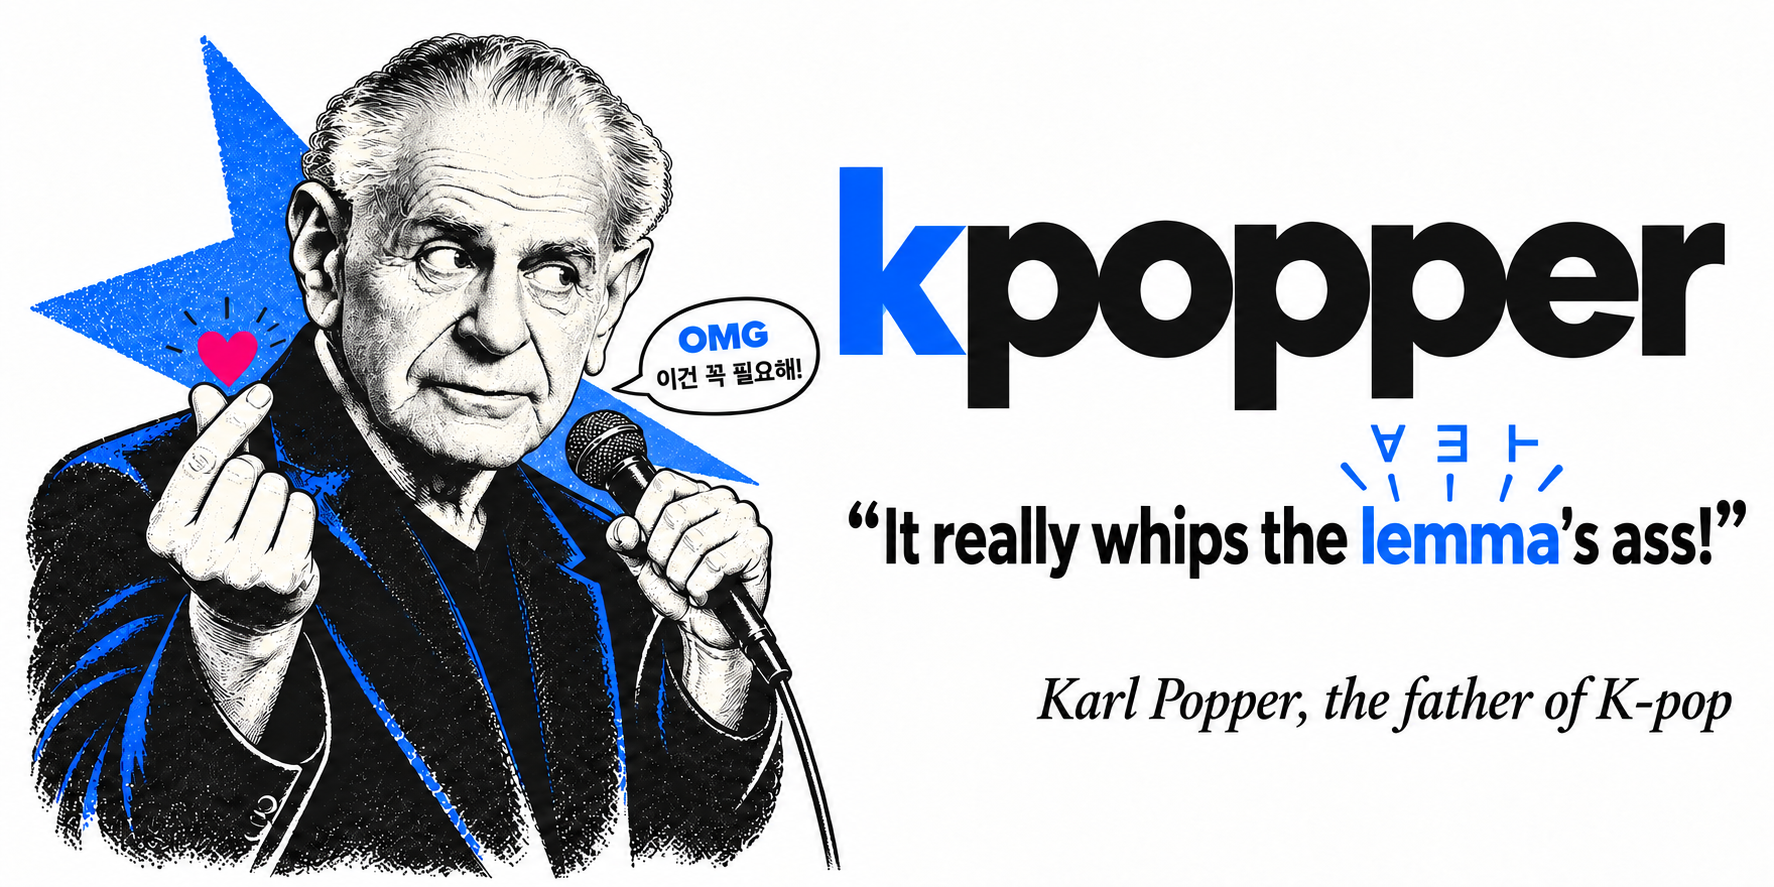
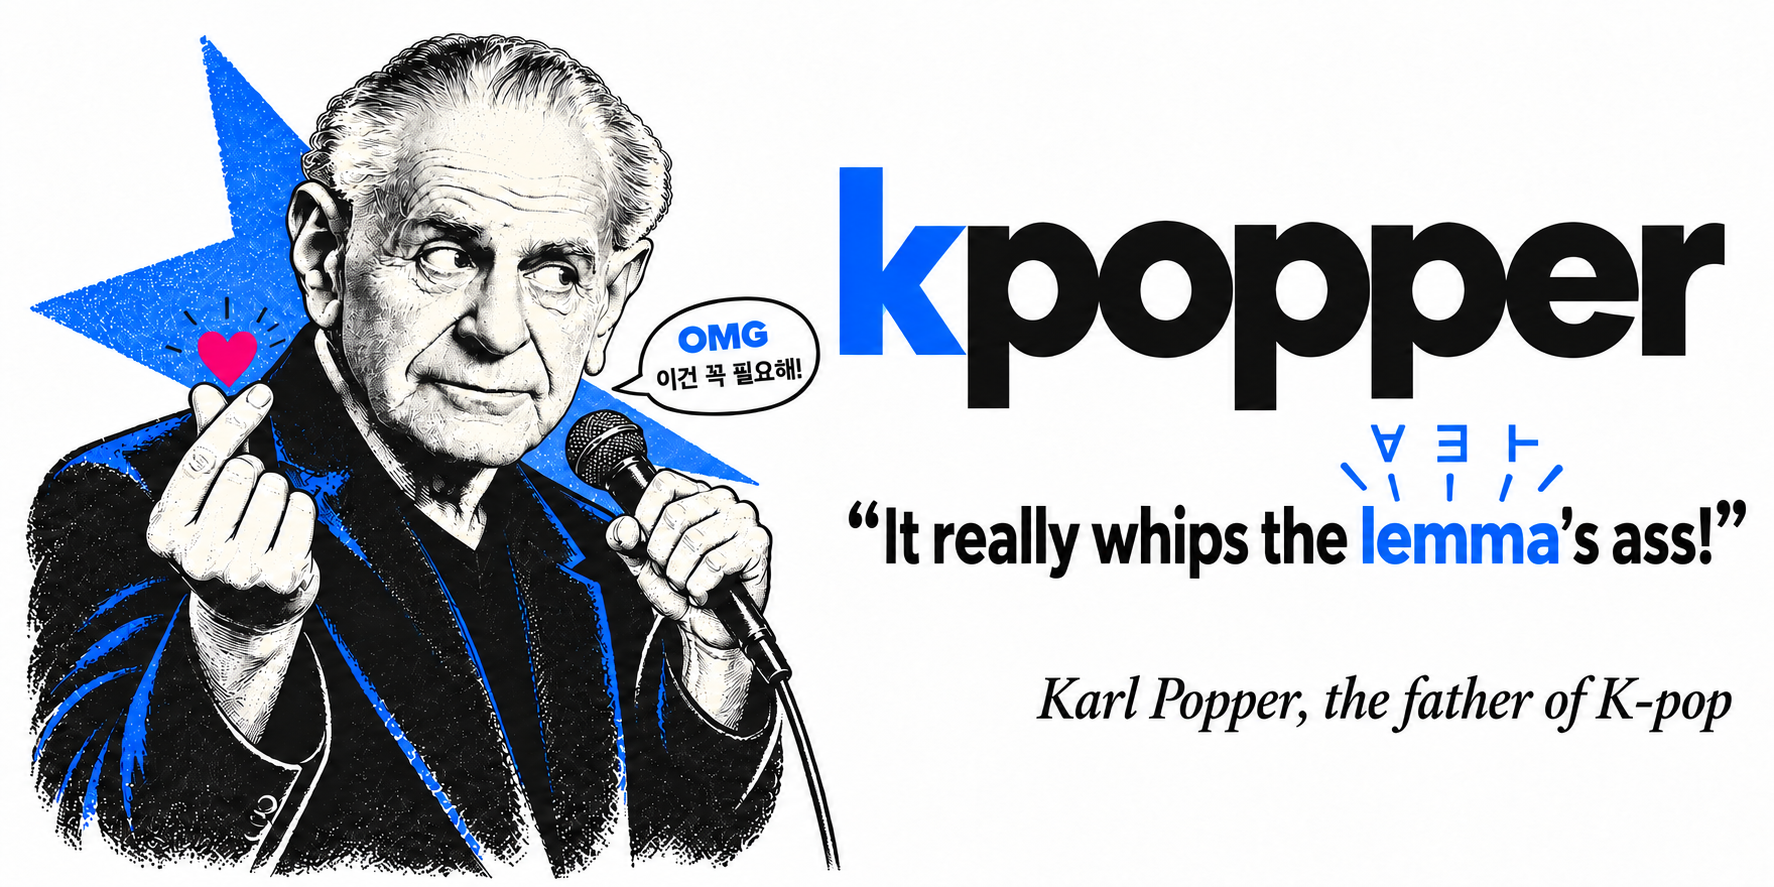
Sharpen reasoning-first copy and refine Popper tone

diff --git a/README.md b/README.md
@@ -8,12 +8,12 @@
 
 # Keep the reasoning. Move the work forward.
 
-kpopper gives your agents a living record of your project's facts, sources,
-decisions and open questions. It connects decisions to their evidence and
-assumptions, so the reasoning stays available across sessions, branches and
-documents. When recorded facts change, checks point to what needs another look.
+kpopper connects decisions to the evidence, assumptions and earlier decisions they
+depend on, and records what would make them worth revisiting. Your agents can follow
+that reasoning across sessions. When a recorded premise changes, kpopper traces its
+reach through the record and surfaces what needs another look.
 
-**Connect what you know to what you do next.**
+**A reasoning layer your agents can inspect, carry forward, and challenge.**
 
 **[Get started](#get-started)** · [Examples](#access-control-and-shared-caching) ·
 [Capabilities](#what-you-can-do-with-kpopper) · [Record format](#the-knowledge-record) ·
@@ -27,7 +27,7 @@ documents. When recorded facts change, checks point to what needs another look.
 - [Revisiting plans when the brief changes](#revisiting-plans-when-the-brief-changes)
 - [Installation and first use](#get-started)
 - [What you can do with kpopper](#what-you-can-do-with-kpopper)
-- [Projects, goals and existing sources](#start-with-the-work)
+- [One project, across your existing tools](#one-project-across-your-existing-tools)
 - [Past, present and future](#past-present-future)
 - [Background capture during a conversation](#keep-the-conversation-moving)
 - [The record and its evolving structure](#the-knowledge-record)
@@ -307,7 +307,9 @@ For a standalone CLI installation and a walkthrough of the launch-party example,
 Use the parts your project needs. Existing documents, tools and memory remain where
 they are; the agent records the relevant connections between them.
 
-## Start with the work
+<a id="start-with-the-work"></a>
+
+## One project, across your existing tools
 
 A project is **work around a goal**. Its materials may span documents, conversations,
 calendars, task systems, files and earlier sessions. In software, they also include code,
@@ -390,7 +392,8 @@ where the conversation can safely continue without that result.
 ### The knowledge record
 
 The technical term is an **epistemic record**: a record of what is known and how it is
-grounded. The main pieces are ordinary YAML:
+grounded. These are roles in the method, not six mandatory YAML sections. Start with
+what the work needs; a source and one finding can be enough.
 
 | Piece | What it preserves |
 |---|---|
@@ -400,6 +403,13 @@ grounded. The main pieces are ordinary YAML:
 | Judgment | A conclusion, its reasoning, declared dependencies and condition for reconsideration. |
 | Review snapshot | What those dependencies held when the judgment was last reviewed: `seen`. |
 | Open question | Something unresolved, retained without inventing an answer. |
+
+The method is opinionated about grounding conclusions, declaring dependencies and
+preserving a basis for review. A judgment needs the values it was reviewed against
+to make drift detectable, and a meaningful condition for reconsideration. A record
+with no judgments yet does not need invented conclusions, snapshots or derivations
+just to fill a template. Field names and project-specific categories are described
+[below](#a-structure-that-grows-with-the-project).
 
 **Change is compared with the last review.** When a recorded scalar differs from a judgment's
 `seen` snapshot, the reader identifies the movement. A supported `wrong_if` comparison says
@@ -442,6 +452,8 @@ The vocabulary is flexible. The ordinary reader recognizes dependency, predicate
 and snapshot roles by their shape; `facts`/`claims` can serve the same purpose as
 `known`/`judgments`. The documented names are the easiest starting point. When two
 fields fit the same role, an explicit `schema` mapping resolves the ambiguity.
+Some control fields, including `reopened_by` and `blocked_on`, are recognized by
+name; flexible vocabulary does not mean every keyword can be renamed.
 
 The relationships stay explicit: where a reading came from, what a decision depends
 on, what it was reviewed against, and what would bring it back for review. Supported
@@ -596,13 +608,6 @@ unrelated IDs, can still require human review.
 ## Popper: give a conclusion a way to fail
 
 The man in the banner is **Karl Popper**, cast here as an unlikely K-pop star.
-**kpopper** combines his name with K-pop; the microphone, finger heart and Korean
-“OMG, I really need this!” are part of the performance.
-
-The attribution **“Karl Popper, the father of K-pop”** is our joke, not a historical
-quotation. **“It really whips the lemma's ass!”** riffs on Winamp's llama slogan:
-*llama* becomes *lemma*, a supporting result in a proof. The little logic symbols
-help point to that wordplay.
 
 Karl Popper was a philosopher of science who argued that scientific theories should expose
 themselves to tests that could prove them wrong. Surviving a test does not make a theory
@@ -613,8 +618,16 @@ kpopper borrows that discipline for agent reasoning: **preserve the evidence, st
 would undermine a conclusion, and know when to reconsider it.** This is the idea behind
 the name.
 
-`wrong_if: 'venue.status != "confirmed"'` is an executable comparison. If it evaluates
-to true, `check` fails. A green check means no failing condition was found by these checks;
+**Now prove that Karl Popper isn't the father of K-pop.**
+
+Our imaginary announcement, **“Popper's K-pop debut is out,”** has a more concrete test:
+
+```yaml
+wrong_if: 'popper.single_status != "released"'
+```
+
+If the recorded status is `planned`, that condition fires and `check` fails.
+A green check means no failing condition was found by these checks;
 it does not establish that the recommendation is true, wise, complete or authorized.
 
 The predicate language is deliberately small: one supported comparison over declared

diff --git a/assets/brand-guide.md b/assets/brand-guide.md
@@ -12,9 +12,10 @@ a small number of strong accents.
 - Write the product name **kpopper** in prose too, including at the start of a
   sentence. Technical identifiers such as `KPOPPER_*` retain their actual spelling.
 - Karl Popper performs with a microphone and a finger-heart gesture. His serious
-  expression carries the humor.
+  expression carries the humor, with room for a barely perceptible, closed-mouth
+  smile. Keep his composure and a natural gaze rather than an exaggerated side-eye.
 - In the hero, a large ink portrait occupies the left side and looks inward toward
-  the wordmark and quotation on the right. Keep the serious expression and recognizably
+  the wordmark and quotation on the right. Keep the restrained expression and recognizably
   Popper-like features. The full-width banner balances character and typography.
 - The slogan is **“It really whips the lemma's ass!”** — a Winamp reference with
   *lemma* in place of *llama*.
@@ -122,6 +123,8 @@ attribution. Keep the caption within the hero without repeating it beneath the
 image. Philosophy and the third-brain metaphor follow the concrete examples.
 
 A small curiosity link beneath the hero can lead directly to the Popper explanation.
+Let the visual joke stand; that section can introduce his idea without explaining
+each prop or spelling out every piece of the pun.
 The main text heading states the practical value rather than repeating the wordmark.
 Give the illustrated cases descriptive section headings, visible record excerpts,
 and links to their executable examples. A compact capabilities overview and a

diff --git a/assets/README.md b/assets/README.md
@@ -4,8 +4,8 @@
 
 `kpopper-hero.png` is the current README hero: a large ink portrait on the left,
 a prominent wordmark and one-line quotation on the right, and a separate italic
-attribution beneath the quotation. Popper looks inward toward the wording; a small
-Korean speech bubble accompanies the portrait.
+attribution beneath the quotation. Popper looks inward toward the wording with a
+restrained, faintly amused expression; a small Korean speech bubble accompanies the portrait.
 The Winamp-inspired slogan is presented as a
 fictional humorous quotation, with logic symbols around *lemma*. It is not a
 historical quotation or photograph.
